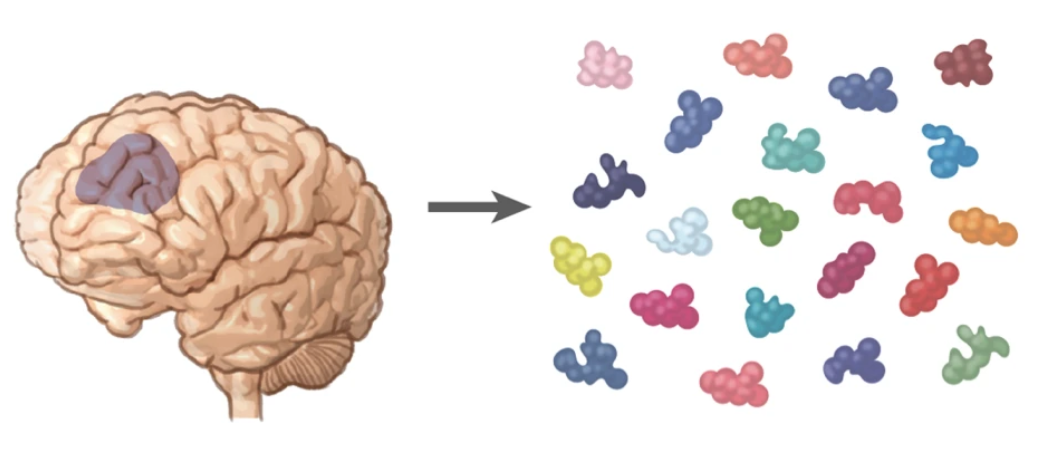
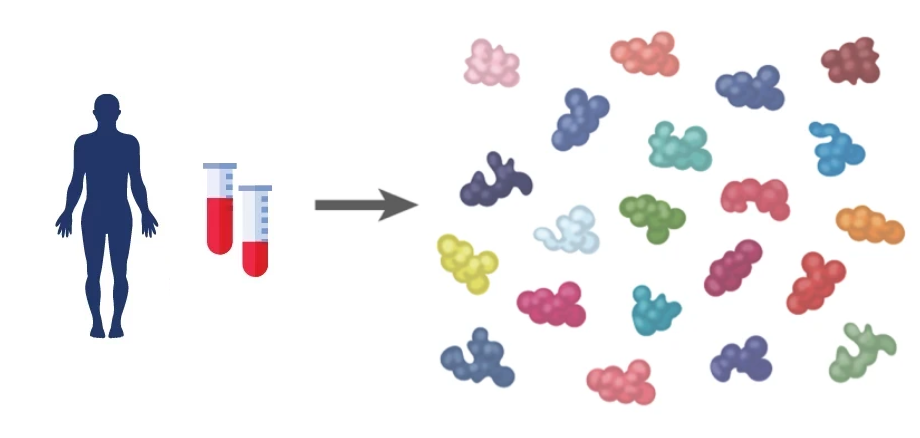
pics in, text changed intro, about

diff --git a/interface/streamlit/pages/1_🧠_Introduction.py b/interface/streamlit/pages/1_🧠_Introduction.py
@@ -80,18 +80,27 @@ with tabs[1]:
 
         st.write("")
 
-        intro_items1 = ["Difficult classification with imaging",
+        intro_items2 = ["Difficult classification:",
 
-                        "Requires histological examination / biopsy",
-                        "High variability between different cancer types"
+                        #"Requires histological examination",
+                        #"Invasive: brain surgery is needed",
+                        #"High variability between different cancer types"
                     ]
-        st.markdown("\n".join([f"- <span style='font-size: 22px'>{item}</span>" for item in intro_items1]), unsafe_allow_html=True)
+        st.markdown("\n".join([f"- <span style='font-size: 22px'>{item}</span>" for item in intro_items2]), unsafe_allow_html=True)
 
+    with col4:
+        colc, cold = st.columns([0.2, 2])
+        with cold:
+            intro_items21 = [
+                        "MRI is expensive & can't distinguish cancer types",
+                        "Histological examination requires biopsy (highly invasive)",
+                            ]
+            st.markdown("\n".join([f"- <span style='font-size: 22px'>{item}</span>" for item in intro_items21]), unsafe_allow_html=True)
 
 
 ##### The Solution #############################################################
 with tabs[2]:
-    col5, col6 = st.columns([1.5, 2.5], gap = "large")
+    col5, col6 = st.columns([2,3], gap = "small")
 
     with col6:
         st.write("")
@@ -110,7 +119,7 @@ with tabs[2]:
 
         intro_items1 = [
             "Measure proteins in the blood (less invasive)",
-            "Use machine learning"
+            "Use machine learning to understand protein patterns",
             "Faster diagnosis",
             "More targeted treatment",
             "Better patient outcomes"

diff --git a/interface/streamlit/pages/3_📈_Predict.py b/interface/streamlit/pages/3_📈_Predict.py
@@ -14,7 +14,7 @@ st.set_page_config(page_title="Model & Prediction", page_icon="📈", layout = "
 
 st.title("Model & Prediction")
 
-st.header("Let's predict based on proteomics data!")
+st.header("Let's predict with machine learning and proteomics data!")
 
 #st.set_option('deprecation.showfileUploaderEncoding', False)
 #@st.cache_data
@@ -115,9 +115,9 @@ else:
 ############# RUN PREDICTION FOR SEVERAL SAMPLE ################################
 
 st.markdown('''
-### Predict the type of cancer for all your uploaded samples:
+### Predict the type of cancer for all samples:
 ''')
-if st.button('Run prediction for all samples'):
+if st.button('Run prediction'):
     data.seek(0)
 
     #base_url = 'http://127.0.0.1:8000' #local

diff --git a/interface/streamlit/pages/2_📊_About.py b/interface/streamlit/pages/2_📊_About.py
@@ -195,12 +195,15 @@ fig3.update_layout(
 # Display figure 3
 st.plotly_chart(fig3)
 
+st.write("")
+st.write("")
+st.write("")
+st.write("")
+st.write("")
 
-
-items3 = ["18 features (17 selected proteins + age)",
-        #"Production of synthetic data",
-        "Logistic Regression"
-]
+items3 = ["Machine learning",
+          "18 features (17 selected proteins + age)"
+          ]
 st.markdown("## Final Analysis:")
 st.markdown("\n".join([f"- <span style='font-size: 20px'>{item}</span>" for item in items3]), unsafe_allow_html=True)
 
